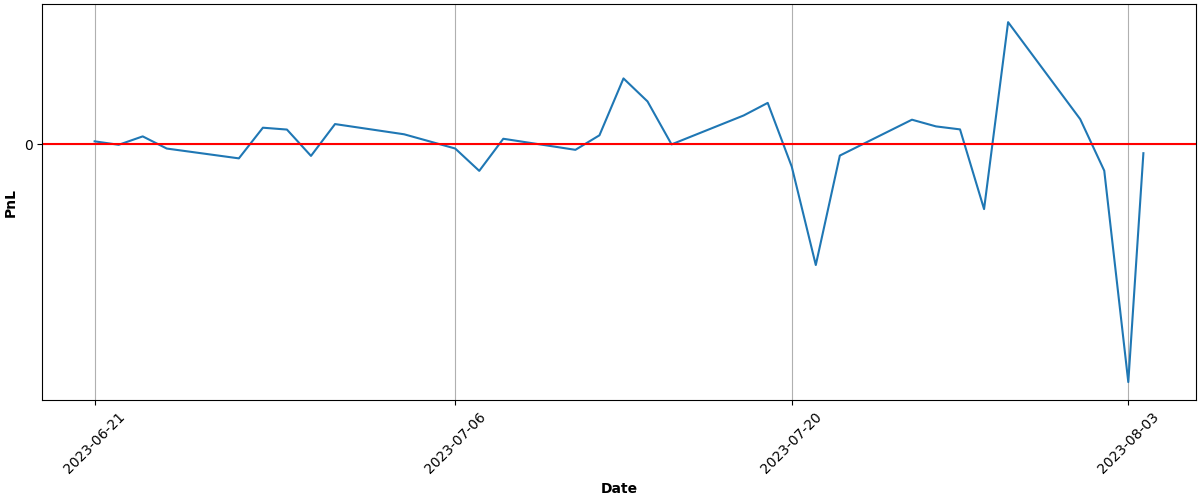
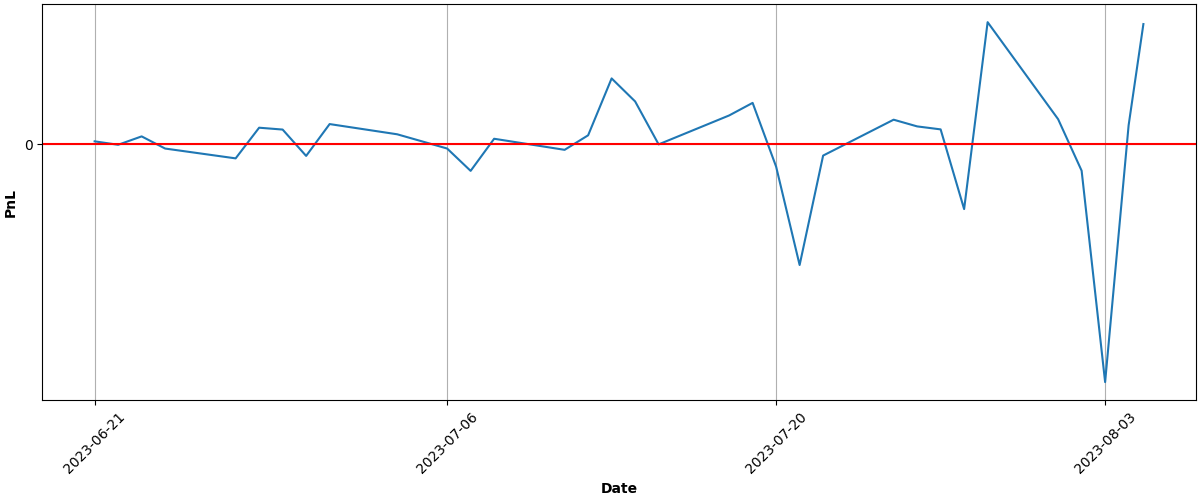
Automated Buy At Fri Aug  4 15:04:52 UTC 2023 Run ID 5763693179

diff --git a/README.md b/README.md
@@ -68,9 +68,9 @@ Results
 
 | Asset | Average Price | Current Price | ROI | 📈 |
 | --- | --- | --- | --- | --- |
-| FNGU | $190.923215171 | $185.5345 | -2.82% | &#128308;&#128546; |
-| SVIX | $27.932315385 | $26.59 | -4.81% | &#128308;&#128546; |
-| **Total** |  |  | **-3.86%** | &#128308;&#128557; |
+| FNGU | $191.025798294 | $194.434 | 1.78% | &#128994;&#128515; |
+| SVIX | $27.837107143 | $28.59 | 2.70% | &#128994;&#128515; |
+| **Total** |  |  | **2.28%** | &#128994;&#128518; |
 
 ### PnL over time (calculations may not be accurate):
 
@@ -81,6 +81,6 @@ Results
 ---
 
 
-Updated at 2023-08-03 15:04:28
+Updated at 2023-08-04 15:05:12
 
 
